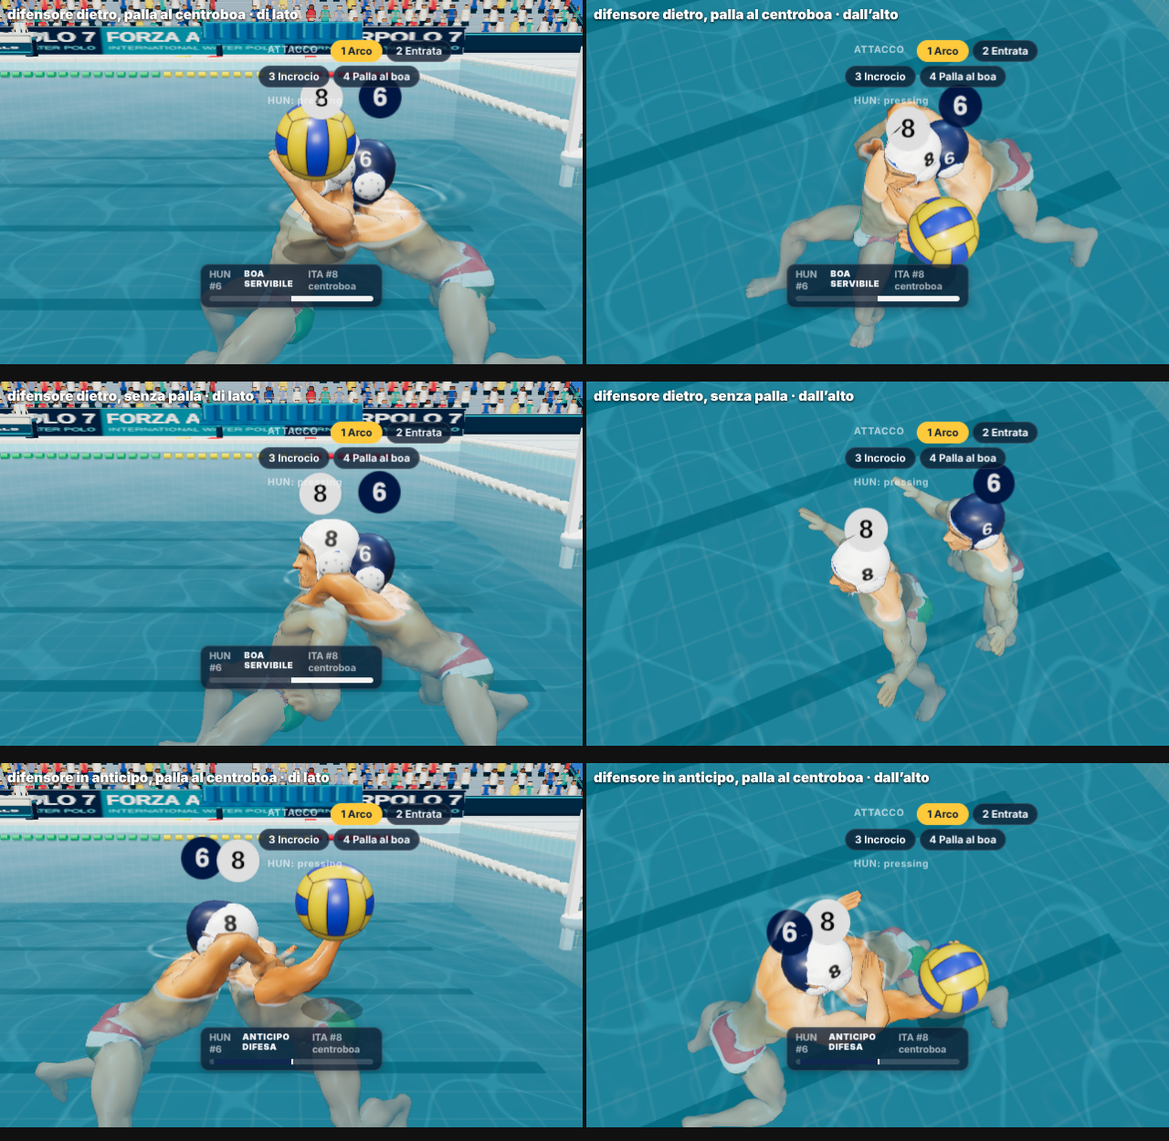
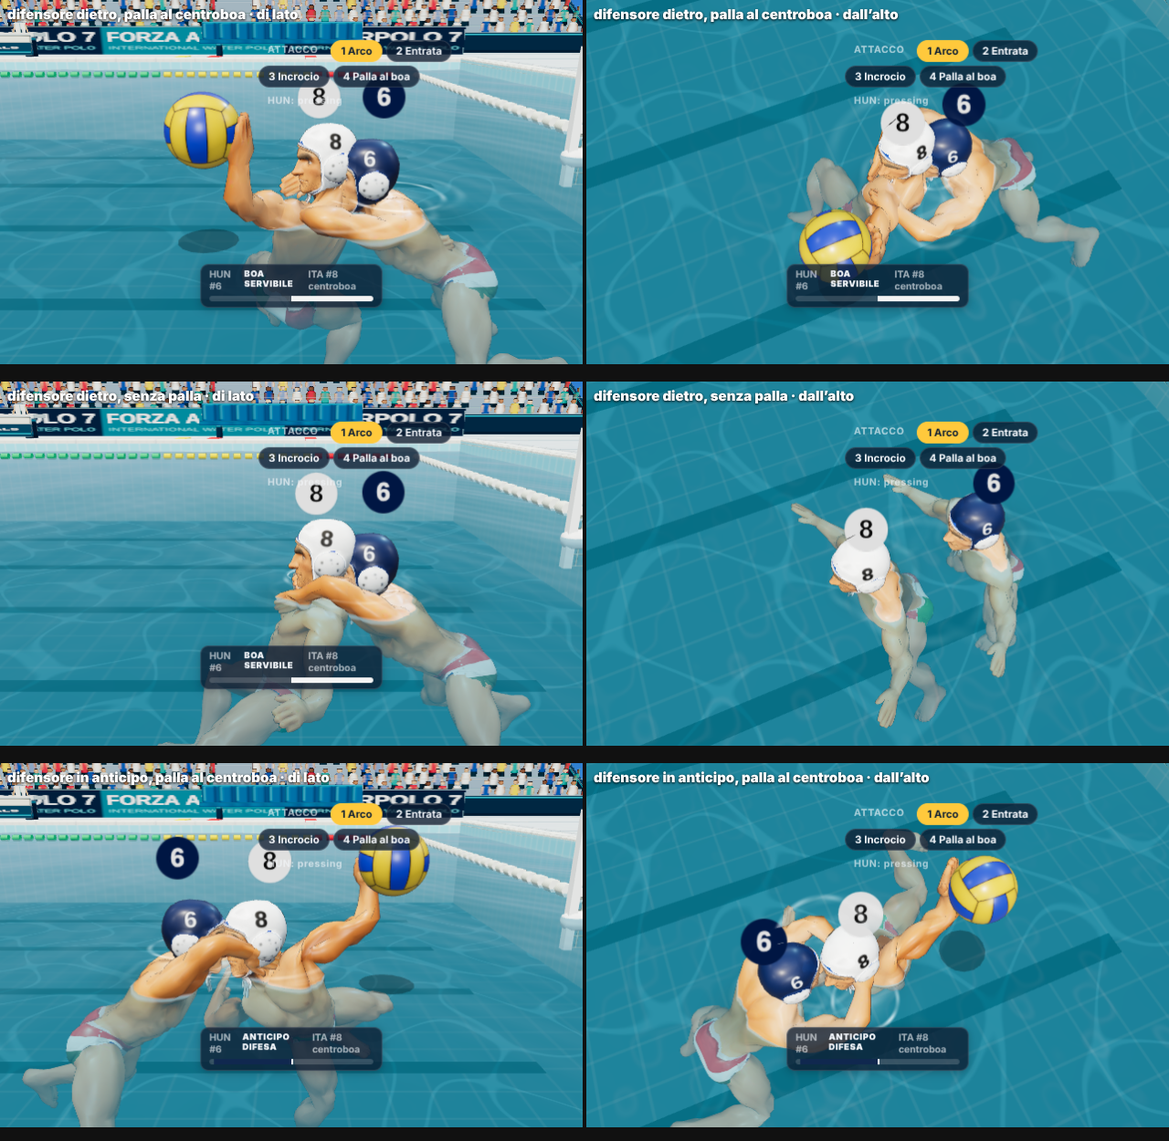
v0.55: palla protetta girando spalle, busto e testa
Ale: «posizione del braccio totalmente innaturale; corpo e testa devono essere
girati». La spalla libera va verso l'avversario e la palla dall'altra parte, con il
braccio di lato; torsione in vita. Solo disegno.

Claude-Session: https://claude.ai/code/session_01XAJhVTigiGoNKwMZvUN4DX

diff --git a/src/grafica/pose.js b/src/grafica/pose.js
@@ -298,7 +298,7 @@ export const PALMO_PALLA=[0.85,0.5,0.1];
 export const ACCOMPAGNA={ shot:[0.54,0.20,-0.08], torsione:[0.50,0.18,-0.20], polso:[0.46,0.30,-0.04], pass:[0.48,0.26,-0.02], lob:[0.40,0.46,0.0] };
 export const PALMO_ACCOMPAGNA=[0.85,-0.35,-0.1];
 // palla tenuta alta (solo disegno): mano sopra il gomito, gomito in fuori all'altezza della spalla (angolo di circa 90°)
-export const HOLD_VISTA=[-0.02,0.42,0.21], GOMITO_FUORI=[-0.1,-0.1,1], PROTEGGI_DIST=1.8;
+export const HOLD_VISTA=[-0.02,0.42,0.21], GOMITO_FUORI=[-0.1,-0.1,1], PROTEGGI_DIST=1.8, PROTEGGI_GIRO=1.2;
 // onda del corpo in nuotata (rad): ampiezza a piena velocità, in più quando si è trattenuti, ritardo tra spalle, bacino e gambe
 export const ONDA={ nuoto:0.11, presa:0.16, ritardo:0.95 };
 const CARICA_VISTA={
@@ -364,12 +364,22 @@ function articolaVista(p,J,T,t){
       // teso dietro la testa, dalla parte opposta all'avversario (resta sul lato del braccio che la tiene)
       let o=null,od=PROTEGGI_DIST;
       for(const q of allPlayers){ if(q.team===p.team||q.excluded||q.isGK) continue; const d=Math.hypot(q.x-p.x,q.z-p.z); if(d<od){ od=d; o=q; } }
-      let mano=HOLD_VISTA, n=PALMO_PALLA, k=0;
-      if(o){ const dx=o.x-p.x,dz=o.z-p.z,l=Math.hypot(dx,dz)||1, av=(dx*p.fx+dz*p.fz)/l, la=(-dx*p.fz+dz*p.fx)/l*lato;
+      // v0.55 (Ale: «posizione del braccio totalmente innaturale; il corpo e la testa devono essere girati»): per proteggere la
+      // palla NON si stende il braccio dietro la schiena a busto fermo; si GIRANO spalle, busto e testa, mettendo la spalla libera
+      // verso l'avversario e la palla dall'altra parte, con il braccio di lato e in alto (rotazione fino a PROTEGGI_GIRO rad)
+      let k=0, giro=0;
+      if(o){ const dx=o.x-p.x,dz=o.z-p.z,l=Math.hypot(dx,dz)||1, av=(dx*p.fx+dz*p.fz)/l, la=(-dx*p.fz+dz*p.fx)/l;
         k=clamp((PROTEGGI_DIST-od)/0.6,0,1);
-        const via=[-av,-la], z=Math.max(0.16,via[1]*0.34+0.1);
-        mano=mix3(HOLD_VISTA,[via[0]*0.32,0.36,z],k); n=mix3(PALMO_PALLA,[via[0]*0.4,0.85,via[1]*0.3+0.1],k); }
-      braccio(lato,add3(V['s'+suff],locale(mano)),locale(GOMITO_FUORI),locale(n),-0.28*(1-k)+0.1*k,1-e);
+        // la spalla della palla (z = lato) ruota verso la direzione opposta all'avversario
+        let d=Math.atan2(-la,-av)-Math.atan2(lato,0); while(d>Math.PI) d-=2*Math.PI; while(d<-Math.PI) d+=2*Math.PI;
+        giro=clamp(d,-PROTEGGI_GIRO,PROTEGGI_GIRO)*k*(1-e);
+        if(Math.abs(giro)>0.01){ const c=mix3(V.sL,V.sR,0.5), cs=Math.cos(giro), sn=Math.sin(giro);
+          const ruota=v=>{ const x=v[0]-c[0], z=v[2]-c[2]; v[0]=c[0]+x*cs-z*sn; v[2]=c[2]+x*sn+z*cs; };
+          for(const key of ['sR','sL','eR','eL','hR','hL']) ruota(V[key]); ruota(V.head);
+          T.torsioneVista=(T.torsioneVista||0)+giro; } }
+      const R2=v=>{ const cs=Math.cos(giro), sn=Math.sin(giro); return [v[0]*cs-v[2]*sn,v[1],v[0]*sn+v[2]*cs]; };
+      const mano=R2(locale(mix3(HOLD_VISTA,[-0.06,0.38,0.30],k))), n=R2(locale(mix3(PALMO_PALLA,[0.25,0.85,0.25],k)));
+      braccio(lato,add3(V['s'+suff],mano),R2(locale(GOMITO_FUORI)),n,-0.28*(1-k)+0.1*k,1-e);
     }
     // BRACCIA «A POLPO» (v0.55): da verticali, senza palla e senza gesti, le mani remano larghe ai lati per coprire spazio
     if(!hold&&e<0.7&&!p.isGK){

diff --git a/CLAUDE.md b/CLAUDE.md
@@ -3,7 +3,7 @@
 Gioco di pallanuoto 3D nel browser, "una sorta di FIFA per la pallanuoto". Proprietario: Ale, ex nuotatore agonista, non programmatore: spiega le scelte in italiano semplice, senza gergo tecnico, e chiedi conferma prima di cambiamenti grossi di direzione.
 
 ## Stato attuale (v0.55, novembre 2026)
-- v0.55 (Claude Code, 17/11/2026; rapporto `docs/v055-finte-e-gesti.md`). Indicazioni di Ale dopo la prima partita finita divertendosi: palla «a vassoio», nuoto rigido («il nuoto di un pallanuotista è simile a un serpente»), finta difficile, passaggi «alti, tesi e veloci», «la finta è il gesto distintivo di un giocatore», «gomito girato al contrario». (1) FINTA CON UN TOCCO (scelta di Ale): telefono/controller tocco su TIRO (<`TOCCO_FINTA` 0,16 s) = finta ripetibile, tenuto fino a `TIRO_POLSO` 0,36 s = polso, più a lungo = tiro caricato (`controllo.js`); tolto il doppio tocco. Tastiera: tocco di Spazio = finta. TIRO AL VOLO con un solo tocco durante il passaggio (`p.voloTocco`), avviso «Tocca TIRO: al volo» vicino alla porta (`doPass`); tastiera invariata (regola v0.45). (2) PASSAGGI 11–15,5 m/s (prima 8,5–12) all'altezza `PASSAGGIO_ALTEZZA` 0,95 m (prima 0,45) (`tiri.js`); `ball.dopoFinta`: intercetto ×0,6 (`fisica.js`) e ricevente più spesso al volo (`giveBall`, `p.ricevutoDopoFinta`), anche in parità per il computer. Computer: finte più frequenti, «finta e scarico» (`p.scaricoDopoFinta` in `aiCarrier`), finta prima dello scarico vicino alla porta. (3) FINTE PERSONALI (`src/finte.js`, idea di Ale; «piccolo vantaggio» scelto da Ale): sei stili larga/a raffica/di polso/mezza/di bomba/di spalla, uno per giocatore da nome e statistiche (`stileFinta`, senza `rnd`), con gesto (`vista`, `torsione`, `alza`, solo disegno), ritmo (`wind`, `pausa`, `max`) e seguito tipico; il computer chiude con il seguito (`chiudiFinta`, `pausaFinta` in `ia.js`); FIRMA = seguito tipico entro 1,6 s: sorpresa +0,08 o intercetto ×0,7 (`firma`, `FIRMA`); finta nella scheda (`fintaScheda` in `menu.js`, `.fm-finta`) e nell'avviso («Finta di bomba riuscita!», `doFake`). Distribuzione su tutte le rose: 46/40/47/39/39/53. Foglio `docs/immagini/v055-finte.png` (`strumenti/finte-foglio.mjs`). (4) PALLA IN MANO E GOMITO (solo disegno, `grafica/pose.js`): palla tenuta sopra la testa con mano dietro la palla, palmo avanti, polso piegato indietro e gomito in fuori all'altezza della spalla (`HOLD_VISTA`, `GOMITO_FUORI`, `PALMO_PALLA`); carica con gomito in fuori (prima indietro e in basso: «ala di pollo») e palmo dietro la palla (prima al cielo). Immagini `docs/immagini/v055-palla-in-mano-prima-dopo.png`, `v055-braccio.png` (`strumenti/braccio-foglio.mjs`, tre lati × quattro fasi). (5) NUOTO A SERPENTE (solo disegno): onda spalle→bacino→gambe a ogni bracciata e rollio delle spalle; più ampia quando un avversario è addosso, anche da verticali (`ONDA` in `pose.js`). `aspetto --confronta`: partita identica. Prove: nuova `npm run finta` (`tests/finta-v055.mjs`, in CI: tocco = finta, tre tocchi = tre finte, polso, caricato, passaggio teso, tiro al volo con un tocco); `desktop` aggiornata alla nuova regola (tocco di Spazio = finta, 0,25 s = tiro). Bilancio 8 partite ITA–HUN (per squadra) v0.54 → v0.55: gol 16,3 → 15,9; tiri 43,8 → 48,4; tiri in gol 37,1% → 32,8%; espulsioni 14,3 → 14,9; rigori 1,8 → 1,3; polso 10,3% → 14,9% dei tiri; palombelle 3,4% → 5,3%; intercetti 5,1 → 4,1; superiorità trasformate 43,2% → 36,0%. DECISIONI SUPERATE: doppio tocco = finta e tocco = polso (v0.16/v0.29) → tocco = finta, tenuto breve = polso; tocco breve di Spazio = tiro (v0.45) → finta; palmo sotto la palla (v0.31/v0.49) → mano dietro la palla. (6) ALTRE INDICAZIONI DI ALE (solo disegno salvo il passaggio): corpo INCLINATO anche da verticali, bacino e gambe indietro di circa 24°, 36° per chi marca, quasi dritto solo per tirare/murare/parare (`INCLINA_VERT`, `inclinazioneVerticale`); braccia larghe «a polpo» senza palla; PALLA PROTETTA dietro la testa con un avversario entro 1,8 m (`PROTEGGI_DIST`); RILASCIO come accompagnamento verso il bersaglio, non schiaffo (`ACCOMPAGNA`, `PALMO_ACCOMPAGNA`); LOTTA AL CENTRO con il centroboa di spalle appoggiato all'indietro al petto del difensore che spinge in avanti, busti fino al contatto (`LOTTA`, `lottaVista`, foglio `docs/immagini/v055-lotta.png`, `strumenti/lotta-foglio.mjs`); PASSAGGIO (`humanPassTarget`): mai al proprio portiere in attacco (solo nella propria metà e se non c'è nessun altro), con la levetta verso la porta il centroboa/palo ha la precedenza (`BOA_PREFERITO`), due controlli in `npm run finta`. BRACCIA MORBIDE (Ale: «finiscila di mettere queste braccia piegate, sembrano cavallette; serve fluidità»): `braccio` in `corpo.js` allunga la distanza spalla-mano del 42% di quanto manca al braccio teso (`BRACCIO_MORBIDO`, `T.morbidoR/L`): gomiti aperti in tutte le pose, meno nel braccio che tira (0,2), con la palla in mano (0,45) e nella bracciata del crawl. PALLA AL CENTROBOA (Ale: «al centroboa la palla va data davanti e in acqua; al volo solo se si è liberato; se il difensore in anticipo viene superato è rigore»): in `doPass` con il marcatore entro 1,8 m il passaggio arriva basso in acqua `BOA_DAVANTI` 0,55 m davanti a lui verso chi passa e più lento; alto in mano solo se libero; se il difensore era in anticipo e la palla passa, `anticipoBattuto` (`regole.js`, `ANTICIPO`): rigore 45%, espulsione 35% entro 5 m. CORPI CHE NON SI COMPENETRANO (Ale: «va bene stare vicini ma non ci si può fondere», anche la palla): la spinta della lotta si ferma a `LOTTA.schiena` 0,5 m (petto contro schiena) o `LOTTA.faccia` 0,7 m (faccia a faccia) ed è ridotta per chi è mezzo disteso; regola generale `separaVista`: sotto `CORPI_MIN` 0,56 m le parti alte si allontanano; la palla disegnata viene spinta fuori dall'asse e dalla testa degli altri (`PALLA_FUORI` 0,36 m). Nuova sonda `strumenti/sonda-compenetrazione.mjs` (partita vera 240 s, ossa della testa): teste a meno di 26 cm in 296 fotogrammi su 6336 (4,7%, minimo 9 cm) prima → 0 su 6421 (minimo 34 cm) dopo; palla dentro una testa altrui 6 → 0. DECISIONE SUPERATA: corpo verticale dritto (v0.12-v0.53) → sempre inclinato; braccia che arrivano esattamente alla mano della posa → braccia più distese; passaggio al centroboa sempre alla mano → in acqua davanti se marcato. NON FATTO: tiri saliti (da tarare quanto si tira dopo la finta) e intercetti calati; giudizio di Ale sui tempi del tocco sul telefono; finte molto diverse richiederebbero animazioni dedicate; revisione con il foglio a tre lati di passaggio, beduina, palombella, ricezione, parata, muro e nuoto con palla («ogni giuntura il più flessibile possibile»); tiro al volo con un tocco da tastiera.
+- v0.55 (Claude Code, 17/11/2026; rapporto `docs/v055-finte-e-gesti.md`). Indicazioni di Ale dopo la prima partita finita divertendosi: palla «a vassoio», nuoto rigido («il nuoto di un pallanuotista è simile a un serpente»), finta difficile, passaggi «alti, tesi e veloci», «la finta è il gesto distintivo di un giocatore», «gomito girato al contrario». (1) FINTA CON UN TOCCO (scelta di Ale): telefono/controller tocco su TIRO (<`TOCCO_FINTA` 0,16 s) = finta ripetibile, tenuto fino a `TIRO_POLSO` 0,36 s = polso, più a lungo = tiro caricato (`controllo.js`); tolto il doppio tocco. Tastiera: tocco di Spazio = finta. TIRO AL VOLO con un solo tocco durante il passaggio (`p.voloTocco`), avviso «Tocca TIRO: al volo» vicino alla porta (`doPass`); tastiera invariata (regola v0.45). (2) PASSAGGI 11–15,5 m/s (prima 8,5–12) all'altezza `PASSAGGIO_ALTEZZA` 0,95 m (prima 0,45) (`tiri.js`); `ball.dopoFinta`: intercetto ×0,6 (`fisica.js`) e ricevente più spesso al volo (`giveBall`, `p.ricevutoDopoFinta`), anche in parità per il computer. Computer: finte più frequenti, «finta e scarico» (`p.scaricoDopoFinta` in `aiCarrier`), finta prima dello scarico vicino alla porta. (3) FINTE PERSONALI (`src/finte.js`, idea di Ale; «piccolo vantaggio» scelto da Ale): sei stili larga/a raffica/di polso/mezza/di bomba/di spalla, uno per giocatore da nome e statistiche (`stileFinta`, senza `rnd`), con gesto (`vista`, `torsione`, `alza`, solo disegno), ritmo (`wind`, `pausa`, `max`) e seguito tipico; il computer chiude con il seguito (`chiudiFinta`, `pausaFinta` in `ia.js`); FIRMA = seguito tipico entro 1,6 s: sorpresa +0,08 o intercetto ×0,7 (`firma`, `FIRMA`); finta nella scheda (`fintaScheda` in `menu.js`, `.fm-finta`) e nell'avviso («Finta di bomba riuscita!», `doFake`). Distribuzione su tutte le rose: 46/40/47/39/39/53. Foglio `docs/immagini/v055-finte.png` (`strumenti/finte-foglio.mjs`). (4) PALLA IN MANO E GOMITO (solo disegno, `grafica/pose.js`): palla tenuta sopra la testa con mano dietro la palla, palmo avanti, polso piegato indietro e gomito in fuori all'altezza della spalla (`HOLD_VISTA`, `GOMITO_FUORI`, `PALMO_PALLA`); carica con gomito in fuori (prima indietro e in basso: «ala di pollo») e palmo dietro la palla (prima al cielo). Immagini `docs/immagini/v055-palla-in-mano-prima-dopo.png`, `v055-braccio.png` (`strumenti/braccio-foglio.mjs`, tre lati × quattro fasi). (5) NUOTO A SERPENTE (solo disegno): onda spalle→bacino→gambe a ogni bracciata e rollio delle spalle; più ampia quando un avversario è addosso, anche da verticali (`ONDA` in `pose.js`). `aspetto --confronta`: partita identica. Prove: nuova `npm run finta` (`tests/finta-v055.mjs`, in CI: tocco = finta, tre tocchi = tre finte, polso, caricato, passaggio teso, tiro al volo con un tocco); `desktop` aggiornata alla nuova regola (tocco di Spazio = finta, 0,25 s = tiro). Bilancio 8 partite ITA–HUN (per squadra) v0.54 → v0.55: gol 16,3 → 15,9; tiri 43,8 → 48,4; tiri in gol 37,1% → 32,8%; espulsioni 14,3 → 14,9; rigori 1,8 → 1,3; polso 10,3% → 14,9% dei tiri; palombelle 3,4% → 5,3%; intercetti 5,1 → 4,1; superiorità trasformate 43,2% → 36,0%. DECISIONI SUPERATE: doppio tocco = finta e tocco = polso (v0.16/v0.29) → tocco = finta, tenuto breve = polso; tocco breve di Spazio = tiro (v0.45) → finta; palmo sotto la palla (v0.31/v0.49) → mano dietro la palla. (6) ALTRE INDICAZIONI DI ALE (solo disegno salvo il passaggio): corpo INCLINATO anche da verticali, bacino e gambe indietro di circa 24°, 36° per chi marca, quasi dritto solo per tirare/murare/parare (`INCLINA_VERT`, `inclinazioneVerticale`); braccia larghe «a polpo» senza palla; PALLA PROTETTA dietro la testa con un avversario entro 1,8 m (`PROTEGGI_DIST`); RILASCIO come accompagnamento verso il bersaglio, non schiaffo (`ACCOMPAGNA`, `PALMO_ACCOMPAGNA`); LOTTA AL CENTRO con il centroboa di spalle appoggiato all'indietro al petto del difensore che spinge in avanti, busti fino al contatto (`LOTTA`, `lottaVista`, foglio `docs/immagini/v055-lotta.png`, `strumenti/lotta-foglio.mjs`); PASSAGGIO (`humanPassTarget`): mai al proprio portiere in attacco (solo nella propria metà e se non c'è nessun altro), con la levetta verso la porta il centroboa/palo ha la precedenza (`BOA_PREFERITO`), due controlli in `npm run finta`. BRACCIA MORBIDE (Ale: «finiscila di mettere queste braccia piegate, sembrano cavallette; serve fluidità»): `braccio` in `corpo.js` allunga la distanza spalla-mano del 42% di quanto manca al braccio teso (`BRACCIO_MORBIDO`, `T.morbidoR/L`): gomiti aperti in tutte le pose, meno nel braccio che tira (0,2), con la palla in mano (0,45) e nella bracciata del crawl. PALLA AL CENTROBOA (Ale: «al centroboa la palla va data davanti e in acqua; al volo solo se si è liberato; se il difensore in anticipo viene superato è rigore»): in `doPass` con il marcatore entro 1,8 m il passaggio arriva basso in acqua `BOA_DAVANTI` 0,55 m davanti a lui verso chi passa e più lento; alto in mano solo se libero; se il difensore era in anticipo e la palla passa, `anticipoBattuto` (`regole.js`, `ANTICIPO`): rigore 45%, espulsione 35% entro 5 m. PALLA PROTETTA GIRANDO IL CORPO (Ale: «posizione del braccio totalmente innaturale; corpo e testa devono essere girati»): con un avversario vicino si girano spalle, busto e testa fino a `PROTEGGI_GIRO` 1,2 rad (spalla libera verso l'avversario, palla dall'altra parte, braccio di lato e in alto), il bacino resta (torsione in vita via `T.torsioneVista`); prima il braccio si stendeva dietro la schiena a busto fermo. CORPI CHE NON SI COMPENETRANO (Ale: «va bene stare vicini ma non ci si può fondere», anche la palla): la spinta della lotta si ferma a `LOTTA.schiena` 0,5 m (petto contro schiena) o `LOTTA.faccia` 0,7 m (faccia a faccia) ed è ridotta per chi è mezzo disteso; regola generale `separaVista`: sotto `CORPI_MIN` 0,56 m le parti alte si allontanano; la palla disegnata viene spinta fuori dall'asse e dalla testa degli altri (`PALLA_FUORI` 0,36 m). Nuova sonda `strumenti/sonda-compenetrazione.mjs` (partita vera 240 s, ossa della testa): teste a meno di 26 cm in 296 fotogrammi su 6336 (4,7%, minimo 9 cm) prima → 0 su 6421 (minimo 34 cm) dopo; palla dentro una testa altrui 6 → 0. DECISIONE SUPERATA: corpo verticale dritto (v0.12-v0.53) → sempre inclinato; braccia che arrivano esattamente alla mano della posa → braccia più distese; passaggio al centroboa sempre alla mano → in acqua davanti se marcato. NON FATTO: tiri saliti (da tarare quanto si tira dopo la finta) e intercetti calati; giudizio di Ale sui tempi del tocco sul telefono; finte molto diverse richiederebbero animazioni dedicate; revisione con il foglio a tre lati di passaggio, beduina, palombella, ricezione, parata, muro e nuoto con palla («ogni giuntura il più flessibile possibile»); tiro al volo con un tocco da tastiera.
 - v0.54 (Claude Code, 17/11/2026, segnalazione di Ale: «il giocatore con la palla che nuota risulta lentissimo, praticamente quasi fermo»; rapporto `docs/v054-portatore.md`). MISURA prima di correggere (`strumenti/sonda-portatore.mjs`: partita vera, il tuo giocatore con la palla spinto verso la porta; `strumenti/sonda-stamina.mjs`: stamina di tutti ogni 30 s). Cause: (1) la stanchezza toglieva fino al 40% della velocità (`0.6+0.4*stamina`) e i compagni guidati dal computer scattano circa il 40% del tempo, quindi arrivavano a stamina 0-5% già nel primo minuto; quando li prendevi tu nuotavano al 60%; (2) con la palla un altro -15%. Risultato: 0,7-0,8 m/s in media e al massimo 0,82, mentre il difensore che lo insegue scatta a 2,5. `fisica.js`: costanti `STANCO=0.82` (la stanchezza toglie al massimo il 18%), `CON_PALLA=0.93` (era 0,85), `SPRINT_CONSUMO=0.0098` (era 0,0092: +6,5%, perché chi è stanco ora nuota più veloce, sprinta per meno tempo e la prova «visibilmente stanco dopo 7 vasche» non era più rispettata). Portatore in partita: media 1,0-1,4 m/s, massimo 1,33-1,51 (prima 0,7-0,8 e 0,82-1,27); da fresco 1,51 m/s con la palla, 1,62 senza, 2,67 in sprint (invariati senza palla da freschi). Bilancio 8 partite ITA–HUN (per squadra) v0.53 → v0.54: gol 15,0 → 15,4; tiri 45,4 → 43,7; tiri in gol 33,0% → 35,3%; espulsioni 11,9 → 15,0 (dalla lotta 81% → 76%); rigori 0,4 → 1,4; azioni 71 → 75,5 (Mondiali 13,3/33/40%/11/1,8; Euro League circa 50 azioni). Prove: due prove dipendevano dalla posizione dei giocatori dopo minuti di gioco casuale e si sono rotte col nuoto più veloce, corrette nella preparazione senza toccare le soglie: `sezione5` (il giocatore stanco viene messo a 6+ m dalla palla, condizione del consiglio di cambio) e `uomo` (la scena del computer in superiorità parte a gioco in corso). `nuoto` legge le nuove costanti. DECISIONE SUPERATA: stanchezza fino a -40% della velocità (v0.16) → fino a -18%; palla al piede -15% → -7%. NON FATTO: il contatto frontale con un difensore ferma ancora quasi del tutto il portatore per circa 1 s (0,01-0,4 m/s), è voluto come «non si passa attraverso l'uomo» ma da giudicare; il computer scatta molto (circa 40% del tempo) e consuma la stamina, da ripensare; espulsioni salite a 15; giudizio di Ale sul telefono.
 - v0.54 anche (seconda richiesta di Ale, stesso giorno: «se un giocatore recupera palla, la squadra deve far partire subito il contropiede»; seconda parte di `docs/v054-portatore.md`): RIPARTENZA DOPO OGNI RECUPERO a più di 13 m dalla porta avversaria, per tutte le squadre (`regole.js`, `giveBall`), con una delle due APERTURE di Ale scelta a caso (`APERTURE`, `POS_I`, `postoApertura`, `riceventeApertura` in `ia.js`; numeri di posizione come in `schemi.js`). «base»: 1, 6, 5 ai 2 metri (destra/centro/sinistra), 3 incontro al portiere a 6 m dalla propria porta e riceve, 2 e 4 appoggio sui lati. «apertura2»: 2 a metà campo riceve, 1 lo supera ai 2 metri, 6 al centro dei 2 metri, 4 e 5 in posizione (sinistra fuori e vicino), ultimi 3 e 2. Il portiere (`aiCarrier`) passa al ricevente designato appena è entro 2,5 m dal posto, con avversario oltre 1,1 m e linea libera; se resta coperto dopo 2,4 s (3,6 s nell'apertura del 2) sceglie il compagno migliore. In ripartenza la palla va avanti: indietro solo se pressati. `CONTRO.durata` 9 → 12 s. Con un uomo espulso o in uscita resta la regola v0.46 (posti per vicinanza). DECISIONE SUPERATA: controfuga organizzata con probabilità per nazionale (`STILE_VELOCE`, v0.46: 1/0,5/0,8) → sempre. Strumenti `strumenti/sonda-aperture.mjs` (`--json=`) e `strumenti/disegna-aperture.mjs`; disegno `docs/immagini/v054-aperture.png`. Sonda: base, primo passaggio al 3 dopo 1,6 s se libero, altrimenti al 4 dopo circa 3,5 s; apertura del 2, al 2 dopo 3,5-4 s in 2 scene su 3. Bilancio finale v0.54 (8 partite ITA–HUN, per squadra): gol 16,3; tiri 43,8; tiri in gol 37,1%; espulsioni 14,3 (lotta 84%); rigori 1,8 (segnati 83%); controfughe con vantaggio 0,9 → 2,5 a partita (Euro League circa 2), 30% in gol; azioni 75,4. Prove adattate senza cambiare soglie: `sezione1` conta chi riprende palla per primo alla rimessa (il portiere ora lancia subito l'apertura), `sezione2` ripete i tre tocchi se il primo ruba palla per caso. VERIFICHE v0.54 sul codice finale: lint PASS; prove PASS (sezione1-6, v046, uomo, gameplay, centroboa, azione, tattica, strategie, nuoto, nuoto-coerente, gioco-fermo, statistiche, orientamento, posizioni, desktop, home, gesti, replay, cronaca, menu); `npm run verifica` sei partite arrivate alla fine, 56 gol su 219 tiri (26%), immagini diverse solo per le posizioni dei giocatori (controllate), riferimenti aggiornati e `--partite=0` PASS; `npm run aspetto` PASS (0 gambe fuori; viste iPhone 59/142.480). NON FATTO: scelta dell'apertura da parte del giocatore (proposta: voce nella strategia prepartita); il 6 non spinge davvero il difensore; nessuna apertura specifica quando recupera un giocatore di movimento.
 - v0.53 (Claude Code, 17/11/2026, scelta di Ale: «punto 1», fermare le funzioni nuove e rifinire la «fetta di gioco» dell'azione d'attacco in parità; rapporto `docs/v053-fetta-di-gioco.md`): (1) SCIVOLAMENTO IN VERTICALE (`partita.js`: `p.scivolaAI`, sotto 1,8 m si scivola, oltre 2,8 m si nuota, ampiezza 0,48 sotto la soglia del nuoto; mai per chi difende sul portatore; `fisica.js`: mentre scivola guarda la palla o la porta se ha palla). (2) MARCATURA SECONDO LA DISTANZA DALLA PALLA (`markTarget` in `ia.js`): attaccante tra 5 e 10 m dalla palla → difensore staccato fino a 1,6 m e 0,4 m verso la palla; non per marcatore del centroboa, zona a M e «lasciato». (3) CIRCOLAZIONE (`aiCarrier`): palla in mano prima di cercare il passaggio vicini 2,5-4,5 → 1,3-2,2 s, equilibrati 1,9-2,9 → 1,1-1,8 s, rapidi 1,1-1,7 → 0,8-1,2 s. Nuovi `npm run misura-azione` (`strumenti/misura-azione-v053.mjs`) e `npm run video-azione` (`strumenti/video-azione-v053.mjs`). Misure (2 partite) v0.52 → v0.53: movimenti brevi in verticale 17,1% → 49,2%; attaccanti lontani dalla palla con il difensore entro 1,2 m 27,8% → 21,5%; passaggi per azione in parità 6,68 → 7,95; palla in mano prima del passaggio 1,51 → 1,39 s. Bilancio 8 partite ITA–HUN (per squadra) v0.52 → v0.53: gol 15,6 → 15,0; tiri 41,4 → 45,4; tiri in gol 37,8% → 33,0%; espulsioni 14,8 → 11,9 (dalla lotta 62% → 81%); rigori 1,7 → 0,4. Isolato con prova intermedia (senza scivolamento: tiri 44,9, tiri in gol 37,5%, espulsioni 14,3, rigori 1,6): marcature/circolazione +3,5 tiri; lo scivolamento riduce i contatti, quindi espulsioni da contrasto, rigori e tiri in gol. Due tentativi di pazienza nel tiro non cambiavano nulla e sono stati tolti. Video `docs/filmati/v053-azione-prima-dopo.mp4` (stesso seme, divergono dopo pochi secondi). Verifiche: lint e 21 prove PASS; `npm run verifica` sei partite 55 gol su 224 tiri (25%), riferimenti aggiornati dopo controllo; `npm run aspetto` PASS (0 gambe fuori; iPhone 47/140.506 e 45/140.248). NON FATTO: taratura di tiri, azioni (71 contro 50), rigori e tiri in gol; smarcamento dedicato senza palla; scivolamento per il giocatore comandato (solo con levetta poco inclinata, come prima); giudizio di naturalezza di Ale.

diff --git a/docs/v055-finte-e-gesti.md b/docs/v055-finte-e-gesti.md
@@ -69,6 +69,7 @@ Immagini:
 
   Senza palla e senza gesti, le braccia remano larghe ai lati, «a polpo».
 - **Palla protetta** (Ale: «terrei il braccio e la palla dietro la mia testa»). Con un avversario entro 1,8 m la palla va a braccio teso dietro la testa, dalla parte opposta all'avversario (`PROTEGGI_DIST`).
+  - Correzione dopo lo screenshot di Ale («posizione del braccio totalmente innaturale; il corpo e la testa devono essere girati»): per proteggere la palla non si stende più il braccio dietro la schiena a busto fermo. Si girano spalle, busto e testa fino a 1,2 rad (`PROTEGGI_GIRO`), con la spalla libera verso l'avversario e la palla dall'altra parte; il bacino resta dov'è (torsione in vita).
 - **Rilascio come accompagnamento** (Ale: «non gli sta dando uno schiaffo, è un accompagnamento»).
   - Prima, dopo il rilascio, la mano finiva sotto la spalla e attraverso il corpo, con il palmo in giù.
   - Ora il braccio prosegue quasi disteso verso il bersaglio, all'altezza del petto, con il palmo verso la porta e le dita che puntano la palla; poi scende (`ACCOMPAGNA`, `PALMO_ACCOMPAGNA`).
